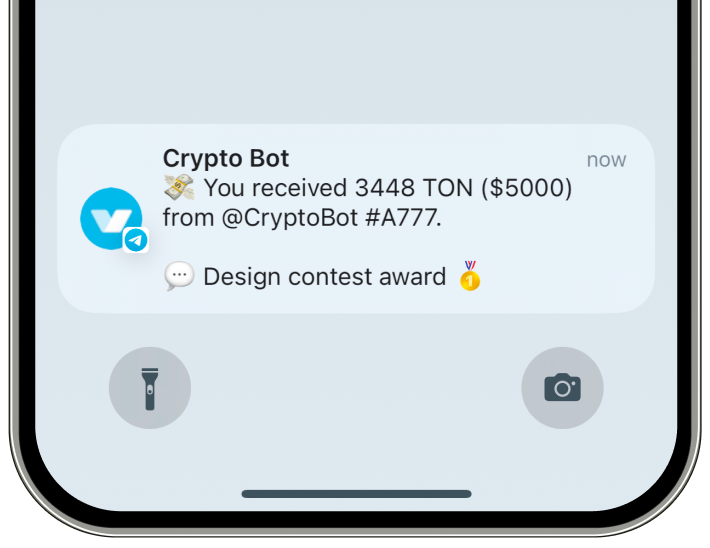
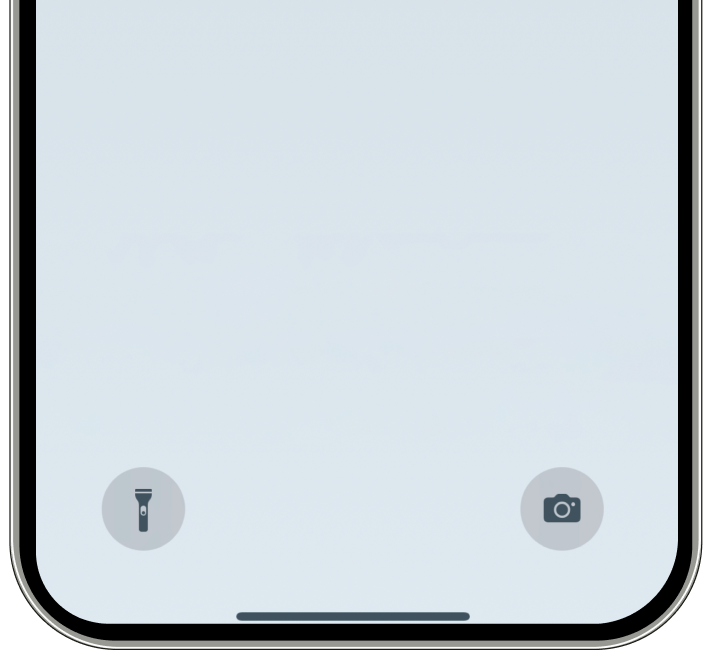
feat

diff --git a/src/sections/Features/Statistics/styles.module.css b/src/sections/Features/Statistics/styles.module.css
@@ -23,18 +23,18 @@
     flex-grow: 1;
 }
 
-.wrap > div {
+.wrap>div {
     top: 50%;
     transform: translateY(-50%);
     position: absolute;
     width: 100%;
 }
 
-.wrap > div:first-of-type {
+.wrap>div:first-of-type {
     animation: Fade1 12s linear infinite;
 }
 
-.wrap > div:last-of-type {
+.wrap>div:last-of-type {
     animation: Fade 12s linear infinite;
 }
 
@@ -92,7 +92,7 @@
 }
 
 .buttons {
-    font-size: var(--fsSmall);
+    font-size: var(--body1);
     margin-top: calc(var(--uint) * 0.5);
     width: 100%;
     display: flex;
@@ -101,8 +101,8 @@
     gap: calc(var(--uint) * 0.5);
 }
 
-.buttons > div {
-    padding: calc(var(--uint) * 1.5);
+.buttons>div {
+    padding: calc(var(--uint) * 1.5) 0;
     text-align: center;
     border-radius: calc(var(--uint) * 1);
     background: var(--tgButton);
@@ -110,16 +110,16 @@
     width: 100%;
 }
 
-.buttons > .selectButton {
+.buttons>.selectButton {
     background: var(--tgButtonSelect);
 }
 
-.buttons > .buttonSmall {
-    width: calc(50% - 2px);
+.buttons>.buttonSmall {
+    width: calc(50% - calc(var(--uint) * 0.25));
 }
 
-.buttons > .buttonLast {
-    border-radius: calc(var(--uint) * 1)  calc(var(--uint) * 1) calc(var(--uint) * 2)  calc(var(--uint) * 2);
+.buttons>.buttonLast {
+    border-radius: calc(var(--uint) * 1) calc(var(--uint) * 1) calc(var(--uint) * 2) calc(var(--uint) * 2);
 }
 
 @media only screen and (max-width: 900px) {
@@ -131,6 +131,13 @@
 @media only screen and (max-width: 600px) {
     .messageWrap {
         min-height: 440px;
+        padding: calc(var(--uint) * 3);
+    }
+}
+
+@media only screen and (max-width: 420px) {
+    .messageWrap {
+        min-height: 520px;
         padding: calc(var(--uint) * 3);
     }
 }

diff --git a/src/assets/styles/theme.css b/src/assets/styles/theme.css
@@ -27,8 +27,10 @@
     --gradientStep2: linear-gradient(207deg, #FCB69F 6.91%, #FFECD2 92.45%);
     --gradientStep3: linear-gradient(0deg, #C2E9FB -16.6%, #A1C4FD 106.15%);
 
-    --gradientButton: linear-gradient(233deg, #9FCCFA -20.48%, #0974F1 97.38%);
-    --graidentMessageWrap: linear-gradient(233deg, #9FCCFA -20.48%, #0974F1 97.38%);
+    --graidentMessage: linear-gradient(233deg, #9FCCFA -20.48%, #0974F1 97.38%);
+
+    --graientMobileMessage: linear-gradient(98deg, #E8F2F9 15.04%, #E8F2F9 52.22%, #E9F1FA 90.93%);
+    --bgMobileMessageDark: #222222;
 
     --stepButton: #8198D1;
     --tgButton: rgba(54,136,194,0.8);
@@ -40,8 +42,9 @@
     --codeRed: #D46565;
 
     --fs: 20px;
-    --fsSmall: 18px;
-    --fsBigSmall: 14px;
+    --body1: 18px;
+    --body2: 14px;
+    --caption: 12px;
 }
 
 [data-theme='dark']:root {
@@ -187,8 +190,8 @@ section {
 @media only screen and (max-width: 600px) {
     :root {
         --fs: 18px;
-        --fsSmall: 14px;
-        --fsBigSmall: 12px;
+        --body1: 14px;
+        --body2: 12px;
     }
 
     h1 {

diff --git a/src/sections/Features/SendCoins/styles.module.css b/src/sections/Features/SendCoins/styles.module.css
@@ -1,11 +1,41 @@
 .imageWrap {
+    position: relative;
     text-align: center;
-    margin-top: -40px;
+    width: 100%;
+    max-width: 470px;
+    margin: 0 auto;
+    margin-top: -100px;
     margin-bottom: calc(var(--uint) * 2);
 }
 
-.imageWrap img {
+.imageWrap > img {
     width: 100%;
-    max-width: 470px;
     height: auto;
+}
+
+.messages {
+    position: absolute;
+    bottom: 45%;
+    right: 50%;
+    transform: translateX(50%);
+    width: 100%;
+    max-width: 380px;
+}
+
+
+@media only screen and (max-width: 600px) {
+    .messages {
+        bottom: 50%;
+        max-width: 85%;
+    }
+
+    .imageWrap {
+        margin-top: -32px;
+    }
+}
+
+@media only screen and (max-width: 420px) {
+    .messages {
+        bottom: 40%;
+    }
 }

diff --git a/src/sections/Features/SendCoins/MessageImage/index.tsx b/src/sections/Features/SendCoins/MessageImage/index.tsx
@@ -1,0 +1,31 @@
+import React from 'react';
+import Image from 'next/image';
+import botAvatar from 'assets/images/botAvatar.svg';
+import styles from './styles.module.css';
+
+function MessageImage() {
+  return (
+    <div className={styles.root}>
+      <Image
+        className={styles.avatar}
+        src={botAvatar}
+        alt="Crypto Bot"
+      />
+
+      <div>
+        <div className={styles.head}>
+          <p><b>Crypto Bot</b></p>
+          <p className={styles.date}>now</p>
+        </div>
+
+        <div>
+          <p>You received 3448 TON ($5000) from @CryptoBot #A777</p>
+          <br />
+          <p>Design contest awards</p>
+        </div>
+      </div>
+    </div>
+  );
+}
+
+export default MessageImage;

diff --git a/src/sections/Features/SendCoins/MessageImage/styles.module.css b/src/sections/Features/SendCoins/MessageImage/styles.module.css
@@ -1,0 +1,35 @@
+.root {
+    text-align: left;
+    padding: calc(var(--uint) * 1) calc(var(--uint) * 2);
+    font-size: var(--body2);
+    border-radius: calc(var(--uint) * 3);
+    background: var(--graientMobileMessage);
+    display: flex;
+    align-items: center;
+    column-gap: calc(var(--uint) * 1);
+}
+
+.date {
+    opacity: 0.5;
+}
+
+.head {
+    display: flex;
+    align-items: center;
+    justify-content: space-between;
+}
+
+@media only screen and (max-width: 600px) {
+    .root {
+        font-size: var(--caption);
+    }
+
+    .avatar {
+        width: 30px;
+        height: auto;
+    }
+}
+
+[data-theme='dark'] .root {
+    background: var(--bgMobileMessageDark);
+}

diff --git a/src/sections/QuickStart/styles.module.css b/src/sections/QuickStart/styles.module.css
@@ -29,7 +29,7 @@
 
 .code {
     width: 100%;
-    font-size: var(--fsSmall);
+    font-size: var(--body1);
     background: var(--bgCode);
     color: var(--textSecondary);
     border-radius: calc(var(--uint) * 2);
@@ -101,7 +101,7 @@
 
 .message {
     width: 100%;
-    font-size: var(--fsSmall);
+    font-size: var(--body1);
     word-wrap: break-word;
 }
 
@@ -138,7 +138,7 @@
     margin-top: calc(var(--uint) * 0.5);
     text-align: right;
     opacity: 0.4;
-    font-size: var(--fsBigSmall);
+    font-size: var(--body2);
 }
 
 @media only screen and (max-width: 900px) {

diff --git a/src/sections/Features/SendCoins/index.tsx b/src/sections/Features/SendCoins/index.tsx
@@ -1,5 +1,6 @@
 import React from 'react';
 import Image from './Image';
+import MessageImage from './MessageImage';
 import styles from './styles.module.css';
 
 function SendCoins() {
@@ -7,6 +8,10 @@ function SendCoins() {
     <>
       <div className={styles.imageWrap}>
         <Image />
+
+        <div className={styles.messages}>
+          <MessageImage />
+        </div>
       </div>
 
       <div>

diff --git a/src/components/Message/styles.module.css b/src/components/Message/styles.module.css
@@ -3,7 +3,7 @@
     width: 100%;
     background: var(--white);
     color: var(--black);
-    font-size: var(--fsSmall);
+    font-size: var(--body1);
     border-radius: calc(var(--uint) * 2);
     padding: calc(var(--uint) * 1) calc(var(--uint) * 2);
 }
@@ -28,5 +28,5 @@
 .date {
     text-align: right;
     opacity: 0.4;
-    font-size: var(--fsBigSmall);
+    font-size: var(--body2);
 }

diff --git a/src/sections/Features/Anonymous/MessageImage/styles.module.css b/src/sections/Features/Anonymous/MessageImage/styles.module.css
@@ -4,7 +4,7 @@
     color: var(--black);
     border-radius: calc(var(--uint) * 2);
     padding: calc(var(--uint) * 1) calc(var(--uint) * 2);
-    font-size: var(--fsSmall);
+    font-size: var(--body1);
     position: relative;
 }
 
@@ -24,5 +24,5 @@
 .date {
     text-align: right;
     opacity: 0.4;
-    font-size: var(--fsBigSmall);
+    font-size: var(--body2);
 }

diff --git a/src/sections/UseCases/Slide2/MessageImage/styles.module.css b/src/sections/UseCases/Slide2/MessageImage/styles.module.css
@@ -7,7 +7,7 @@
 
 .button {
     position: relative;
-    font-size: var(--fsSmall);
+    font-size: var(--body1);
     padding: calc(var(--uint) * 1.5);
     text-align: center;
     border-radius: calc(var(--uint) * 1) calc(var(--uint) * 1) calc(var(--uint) * 2) calc(var(--uint) * 2);

diff --git a/src/sections/Features/Anonymous/styles.module.css b/src/sections/Features/Anonymous/styles.module.css
@@ -5,7 +5,7 @@
 }
 
 .messageWrap {
-    background: var(--graidentMessageWrap);
+    background: var(--graidentMessage);
     border-radius: calc(var(--uint) * 3);
     margin-bottom: calc(var(--uint) * 2);
     padding: calc(var(--uint) * 3);

diff --git a/src/sections/UseCases/styles.module.css b/src/sections/UseCases/styles.module.css
@@ -21,7 +21,7 @@
 }
 
 .counter {
-    font-size: var(--fsBigSmall);
+    font-size: var(--body2);
 }
 
 .bullets {
@@ -165,7 +165,7 @@
     }
 
     .wrap {
-        min-height: 360px;
+        min-height: 380px;
     }
 
     .messageWrap {
